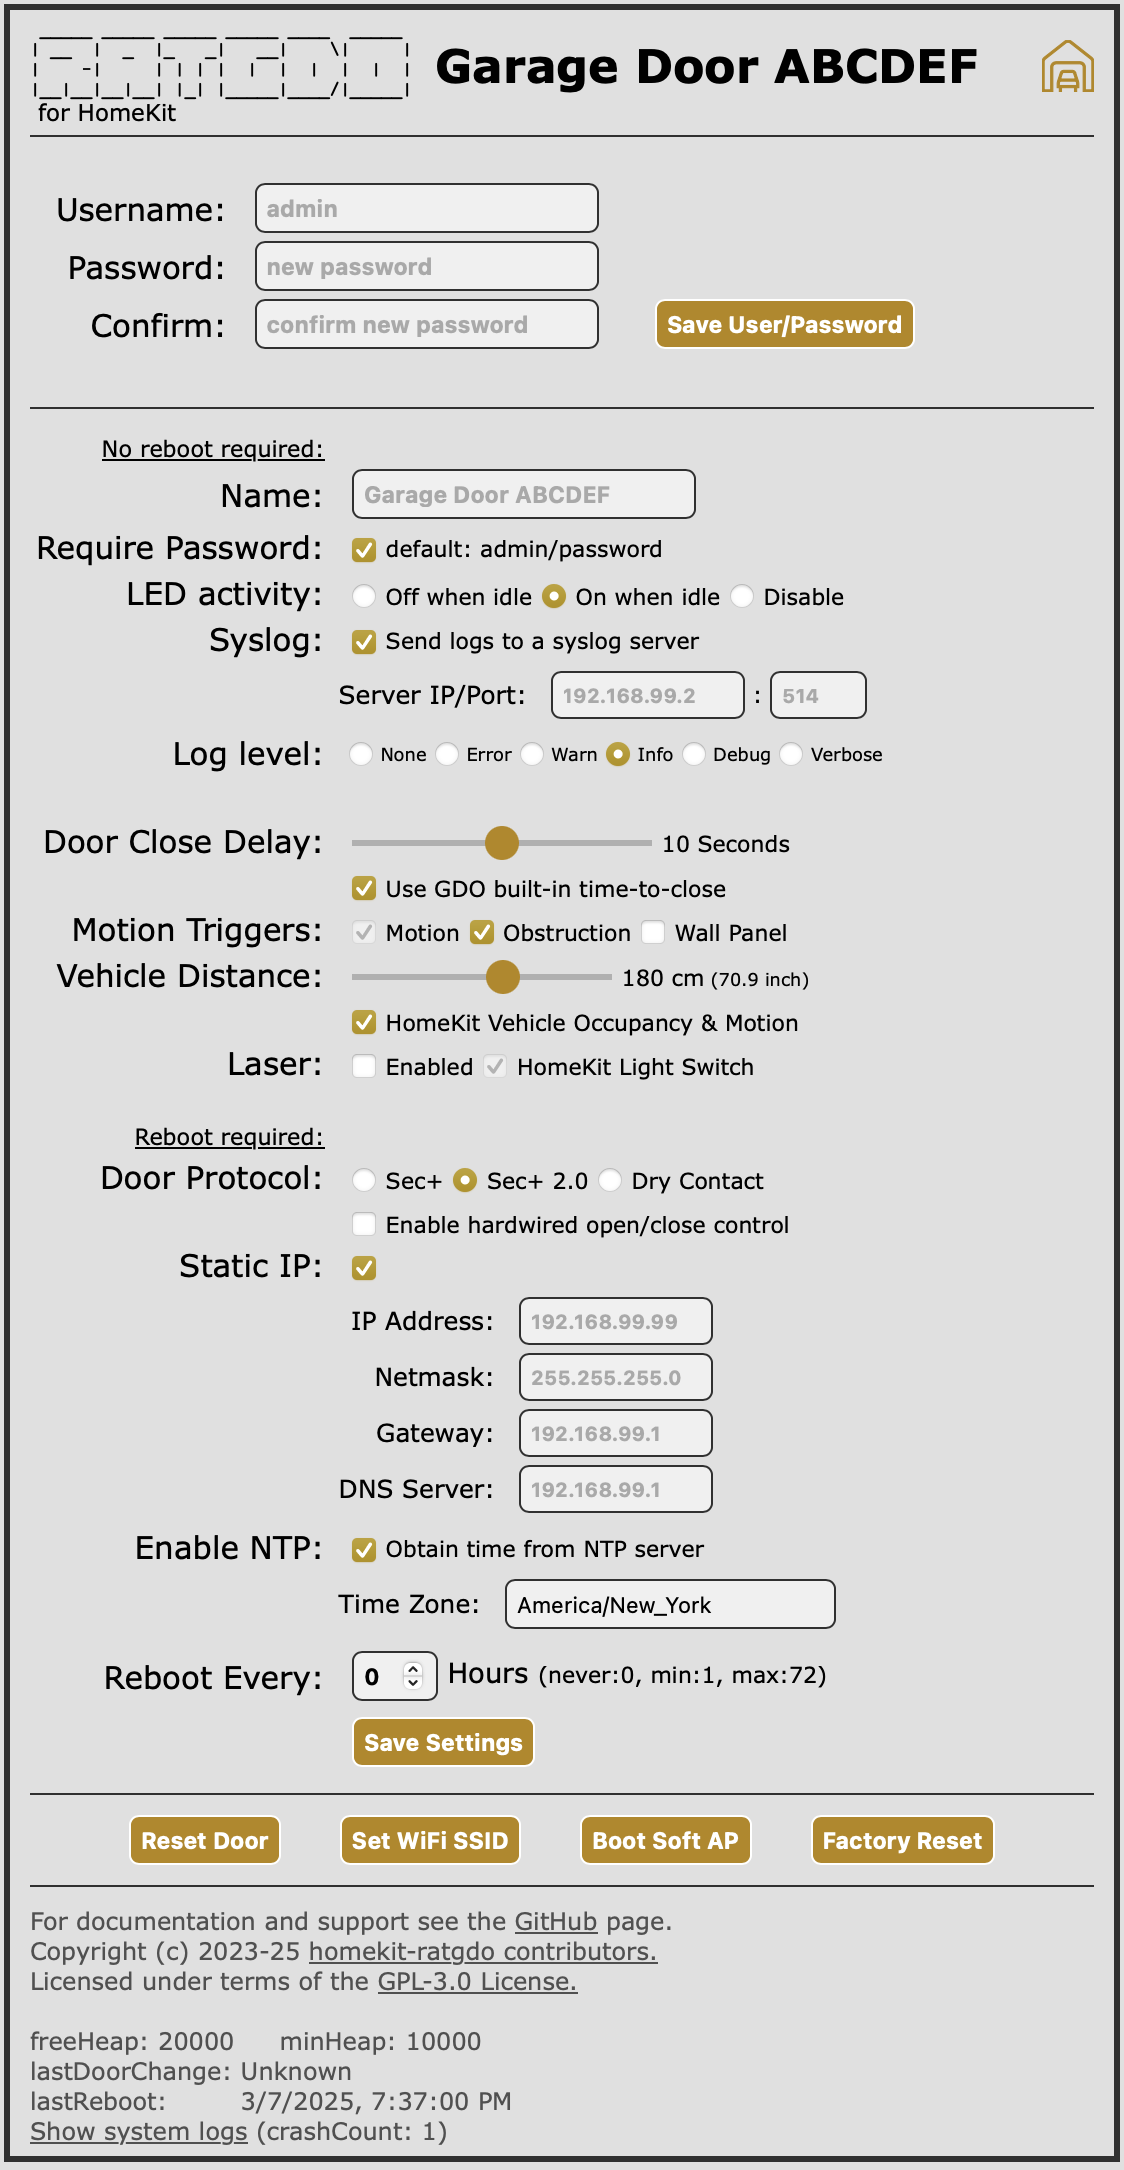
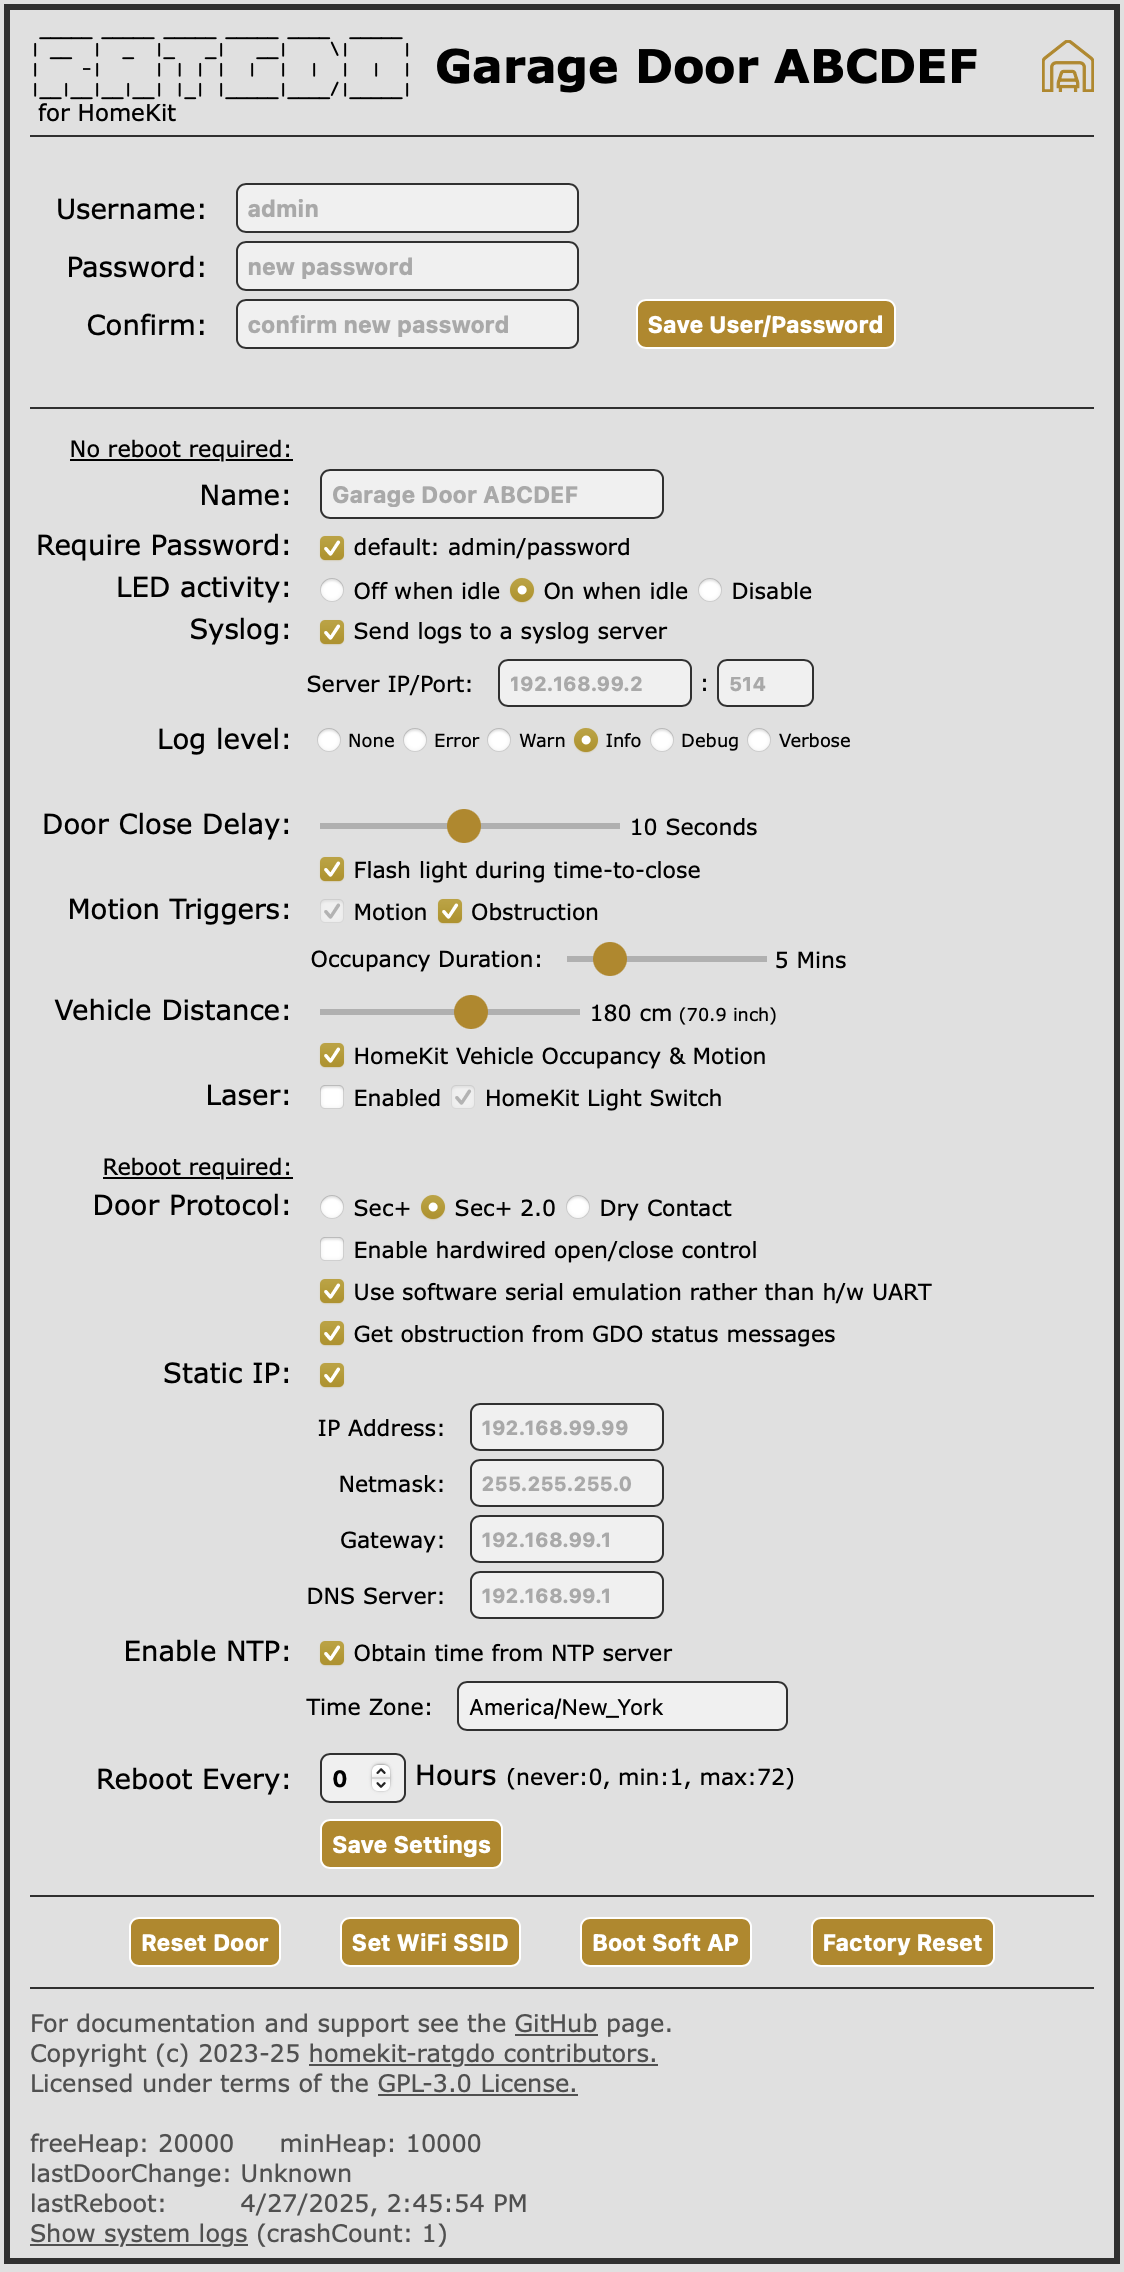
Update README.md and CHANGELOG.md

diff --git a/README.md b/README.md
@@ -86,7 +86,7 @@ The webpage comprises three sections, HomeKit and ratgdo device status, garage d
 
 ### HomeKit and ratgdo status
 
-If you ratgdo device is not yet paired to HomeKit then a QR code is displayed for you to scan and add the garage door to HomeKit. If the device is already paired then this is replaced with a statement that you must first un-pair the device if you wish to use it with another HomeKit home.  A Reset or Un-pair HomeKit button is provided for this.
+If your ratgdo device is not yet paired to HomeKit then a QR code is displayed for you to scan and add the garage door to HomeKit. If the device is already paired then this is replaced with a statement that you must first un-pair the device if you wish to use it with another HomeKit home.  A Reset or Un-pair HomeKit button is provided for this.
 
 > [!NOTE]
 > If you will re-pair to the same HomeKit home you must also delete the accessory from HomeKit as well as un-pairing at the ratgdo device.
@@ -152,17 +152,25 @@ You can select the verbosity of log messages from none to verbose.  Default is _
 
 ### Door Close Delay
 
-You can select up-to 60 second delay before door starts closing. During the delay period the garage door lights will flash and you may hear the relay clicking. On ratgdo32-disco boards you will also hear audible beeping. Default time-to-close delay is 5 seconds.
+You can select up-to 60 second delay before door starts closing. During the delay period the garage door lights will flash and you may hear the relay clicking. On ratgdo32-disco boards you will also hear audible beeping. Default time-to-close delay is 5 seconds. See WARNING below.
+
+### Flash light during time-to-close
+
+You can disable the garage door opener light from flashing during the delay period.  This has the benefit of reducing traffic on the serial communications to the door opener.  However note the WARNING below.
 
 > [!WARNING]
 > The US Consumer Product Safety Act Regulations, section 1211.14, unattended operation requirements [16 CFR § 1211.14](https://www.law.cornell.edu/cfr/text/16/1211.14), state that there must be a minimum delay of 5 seconds before the door closes.
-> The regulation also requires that the light flash with audible beeping.  If you select a time-to-close delay of under 5 seconds then a warning is shown in the web settings page and you accept all responsibility and liability for injury or any other loss.
+> The regulation also requires that the light flash with audible beeping.  If you select a time-to-close delay of under 5 seconds, or disable light flashing, then a warning is shown in the web settings page and you accept all responsibility and liability for injury or any other loss.
 
 ### Motion Triggers
 
 This allows you to select what causes the HomeKit motion sensor accessory to trigger.  The default is to use the motion sensor built into the garage door opener, if it exists.  This checkbox is not selectable because presence of the motion sensor is detected automatically... based on detecting motion in the garage.  If your door opener does not have a motion sensor then the checkbox will show as un-checked.
 
-Motion can also be triggered by the obstruction sensor and by pressing the door, light or lock buttons on the door opener wall panel.  These are disabled by default but may be selected on the web page.
+Motion can also be triggered by the obstruction sensor.  This is disabled by default but may be selected on the web page.
+
+### Occupancy Duration
+
+A HomeKit occupancy sensor will be set active when motion is detected.  It will remain active for a user set duration between zero and 120 minutes after the last motion detected.  HomeKit accessory is disabled if set to zero.  Disabled by default.
 
 ### Vehicle Distance
 
@@ -199,6 +207,10 @@ For Security+ 1.0 and Security +2.0 it is possible to repurpose the sensors used
 ### Use software serial emulation rather than h/w UART
 
 For Security+ 1.0 and Security+ 2.0, communications with the garage door uses a serial port. This can be either the ESP32's built-in hardware UART or a software emulation of a UART.  Software emulation is required for Security+ 2.0 to allow for automatic sensing and changing of the baud rate... without this, the ratgdo cannot detect button presses at the garage door wall panel controler.  For Security+ 1.0, software emulation is optional.  If you experience communication errors you can try changing to use hardware UART.
+
+### Get obstruction from GDO status messages
+
+For Security+ 1.0 and Security +2.0, ratgdo obtains obstruction state from status messages sent by the door opener.  These messages can sometimes be slow to report a change in obstruction status.  Unselecting this option will tell the ratgdo to monitor the hardwired obstruction sensor pin directly.
 
 ### WiFi Version _(not supported on ratgdo32 boards)_
 

diff --git a/CHANGELOG.md b/CHANGELOG.md
@@ -4,6 +4,20 @@
 
 All notable changes to `homekit-ratgdo32` will be documented in this file. This project tries to adhere to [Semantic Versioning](http://semver.org/).
 
+## v3.1.7 (2025-04-27)
+
+### What's Changed
+
+* Feature: Allow user setting to disable light flashing during time-to-close
+* Feature: Add a HomeKit occupancy sensor triggered by motion that is active for user specified duration between 0 and 120 minutes, Requested in issue #45
+* Bugfix: Do not run setup function(s) if already run.  Hope that this fixes issue #51
+* Bugfix: Obstruction sensor not triggering HomeKit motion, fix issue #65
+* Other: Additional error checking and changes to log verbosity for some messages.
+
+### Known Issues
+
+* Still testing... Future updates MAY include breaking changes requiring a flash erase and re-upload.
+
 ## v3.1.6 (2025-04-01)
 
 Version 3.1.x include major change to garage door opener (GDO) communications.  This has major benefit in separating out the details of communicating with the garage door from HomeKit and the ratgdo user interface, greatly simplifying our code.
